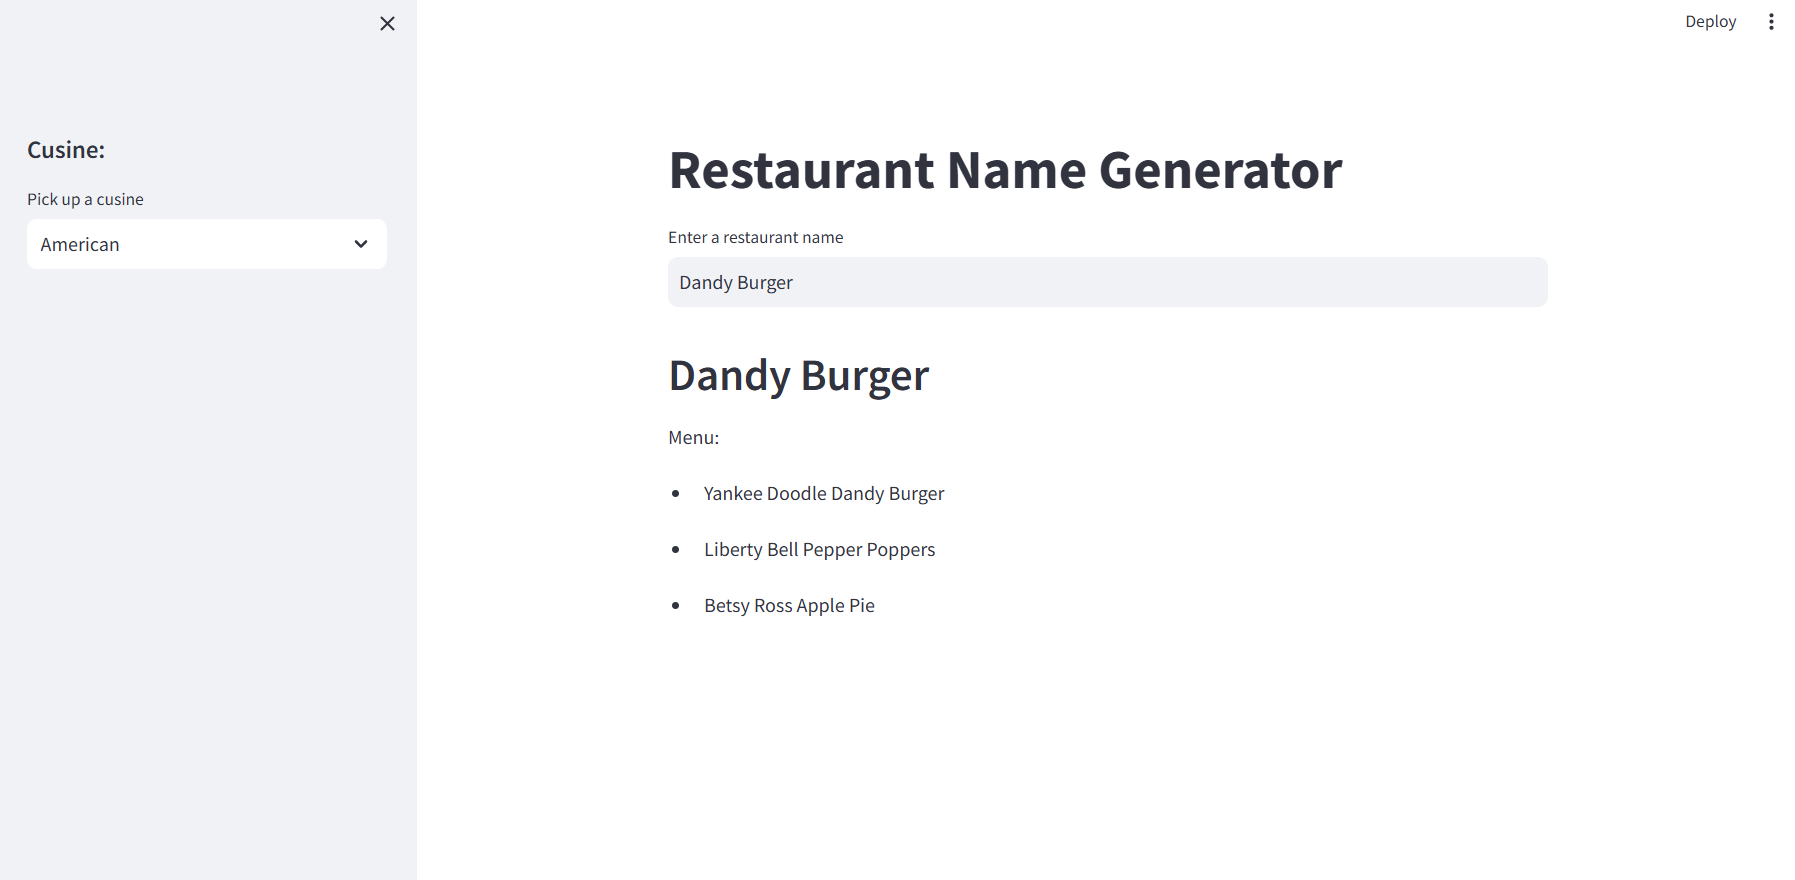
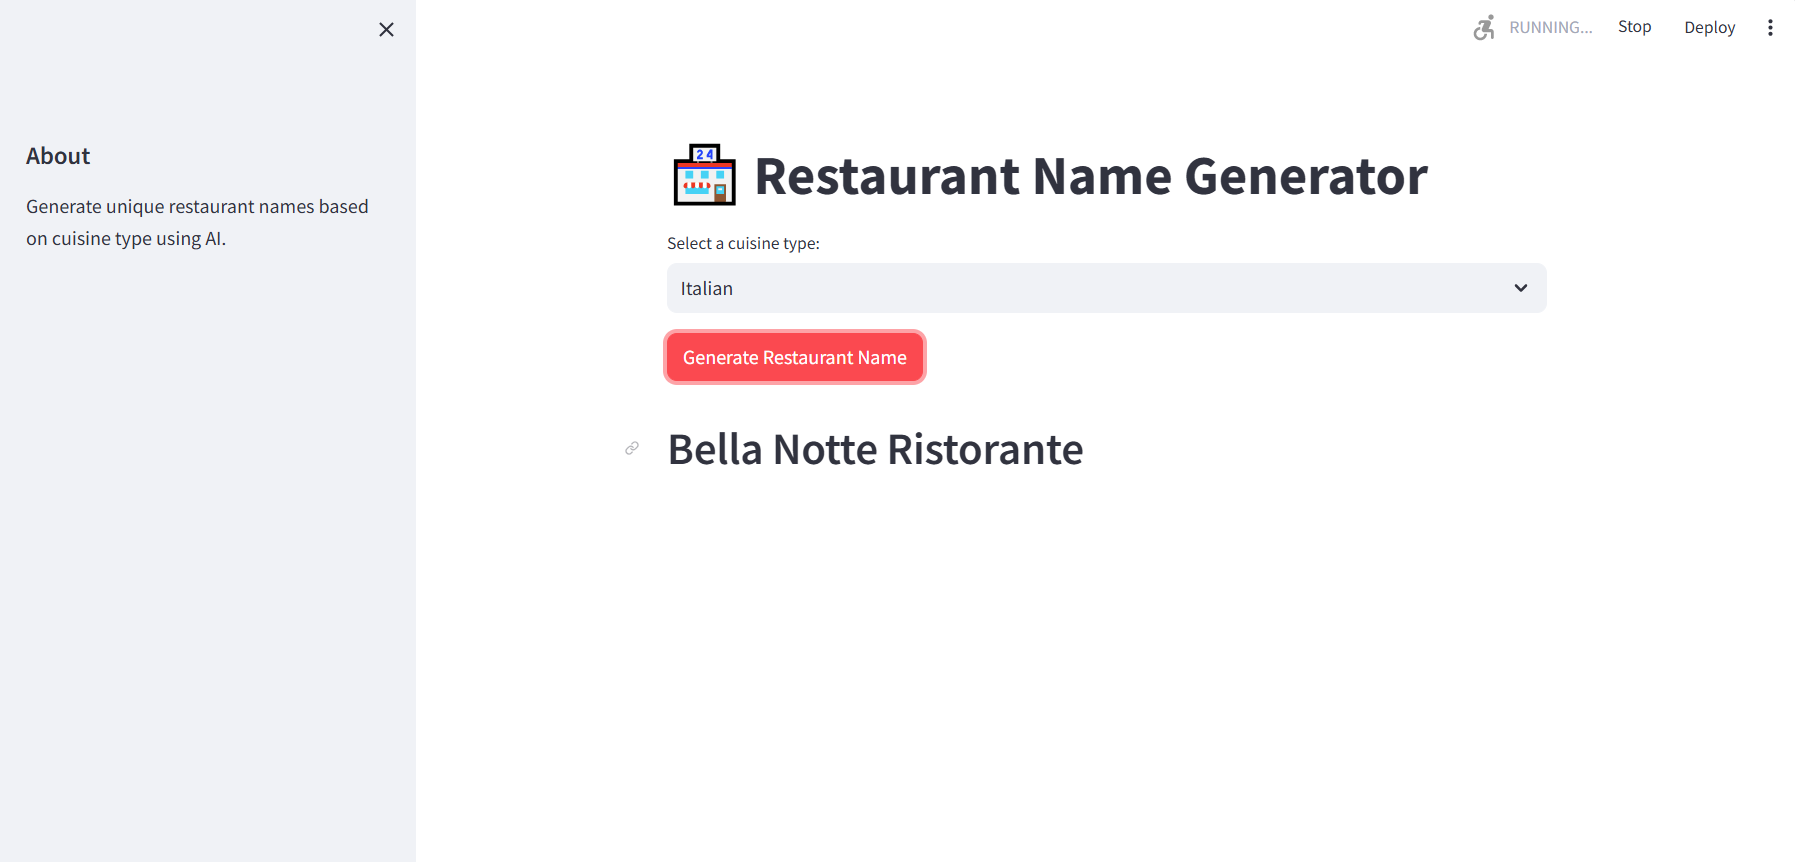
Update UI. Add loading spinner. Add description.

diff --git a/main.py b/main.py
@@ -1,43 +1,44 @@
 import streamlit as st
-from langchain_helper import generate_restaurant_name_and_items
+from generator import generate_restaurant_name
 
-st.title("Restaurant Name Generator")
 
-st.sidebar.header("Cusine:")
+def main():
+    st.set_page_config(
+        page_title="Restaurant Name Generator",
+        page_icon="🍽",
+    )
 
-cuisine = st.sidebar.selectbox("Pick up a cusine", ("Mexican", "American", "Chinese"))
+    st.title("🏪 Restaurant Name Generator")
 
-restaurant_name = st.text_input("Enter a restaurant name")
+    # Add a sidebar with information
+    with st.sidebar:
+        st.header("About")
+        st.write("Generate unique restaurant names based on cuisine type using AI.")
 
-if cuisine:
-    response = generate_restaurant_name_and_items(cuisine)
+    # Main content
+    cuisines = [
+        "Italian",
+        "Mexican",
+        "Chinese",
+        "Indian",
+        "Japanese",
+        "American",
+        "French",
+        "Thai",
+    ]
+    cuisine = st.selectbox("Select a cuisine type:", cuisines)
 
-    # Display restaurant name
-    if restaurant_name:
-        st.header(restaurant_name)
-    else:
-        st.header(response["restaurant_name"])
+    if st.button("Generate Restaurant Name", type="primary"):
+        with st.spinner("Generating restaurant name..."):
+            # Generate restaurant name
+            restaurant_name = generate_restaurant_name(cuisine)
 
-    # Display menu items
-    menu_items = []
+            if restaurant_name:
+                st.header(restaurant_name)
 
-    try:
-        print(response["food_items"])
-        menu_items_raw = response["food_items"]
-        menu_items_list = menu_items_raw.split(",")
+            else:
+                st.error("Failed to generate restaurant name. Please try again.")
 
-        menu_items = menu_items_list
 
-        # Truncate menu items to 3
-        if len(menu_items) > 3:
-            menu_items = menu_items[0:3]
-
-    except KeyError:
-        print("KeyError when trying to get menu items")
-
-    if len(menu_items) != 0:
-        # Display menu
-        st.write("Menu:")
-
-        for item in menu_items:
-            st.write("-", item)
+if __name__ == "__main__":
+    main()
